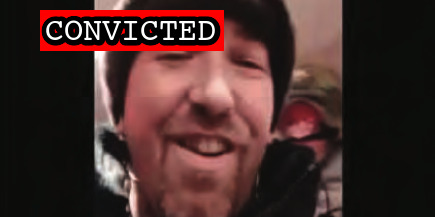
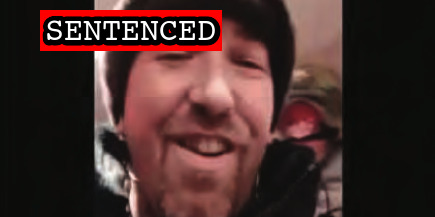
Latest sentence

Changed region(s): [[0.2391, 0.0553, 0.4184, 0.2212], [0.0897, 0.0553, 0.2092, 0.2212], [0.508, 0.0553, 0.5379, 0.2212]]

diff --git a/docs/_suspects/adam-honeycutt.md b/docs/_suspects/adam-honeycutt.md
@@ -4,18 +4,18 @@ lastName: Honeycutt
 hashtag: AdamHoneycutt
 aka: Bundy
 residence: Florida
-status: Convicted
+status: Sentenced
 date: 2021-02-11
 charged: 2021-02-11
 indicted:
 convicted: 2022-03-01
 acquitted:
-sentenced:
+sentenced: 2022-05-11
 dismissed:
 deceased:
 plea_hearing: 2022-03-01
 trial_date:
-sentencing:
+sentencing: 2022-05-11
 age: 39
 occupation: Bail Bondsman
 affiliations:
@@ -36,12 +36,15 @@ published: true
 caseNumber: 1:21-mj-216
 videos:
 charges:
-- code: 40 USC § 5104(e)(2)(G)
-  title: Parading, demonstrating or picketing in a Capitol building
-  url: https://www.law.cornell.edu/uscode/text/40/5104
-  felony: false
+  - code: 40 USC § 5104(e)(2)(G)
+    title: Parading, demonstrating or picketing in a Capitol building
+    url: https://www.law.cornell.edu/uscode/text/40/5104
+    felony: false
 sentence:
+  - 45 days in prison
+  - $500 restitution
 ---
+
 - [News Report](https://www.news4jax.com/news/local/2021/02/11/jacksonville-fbi-agents-arrest-man-on-charges-connected-to-capitol-riot/)
 - [Statement of Facts](https://www.justice.gov/usao-dc/case-multi-defendant/file/1366581/download)
 - [FBI Statement (Twitter)](https://twitter.com/FBIJacksonville/status/1359935620123136000)
